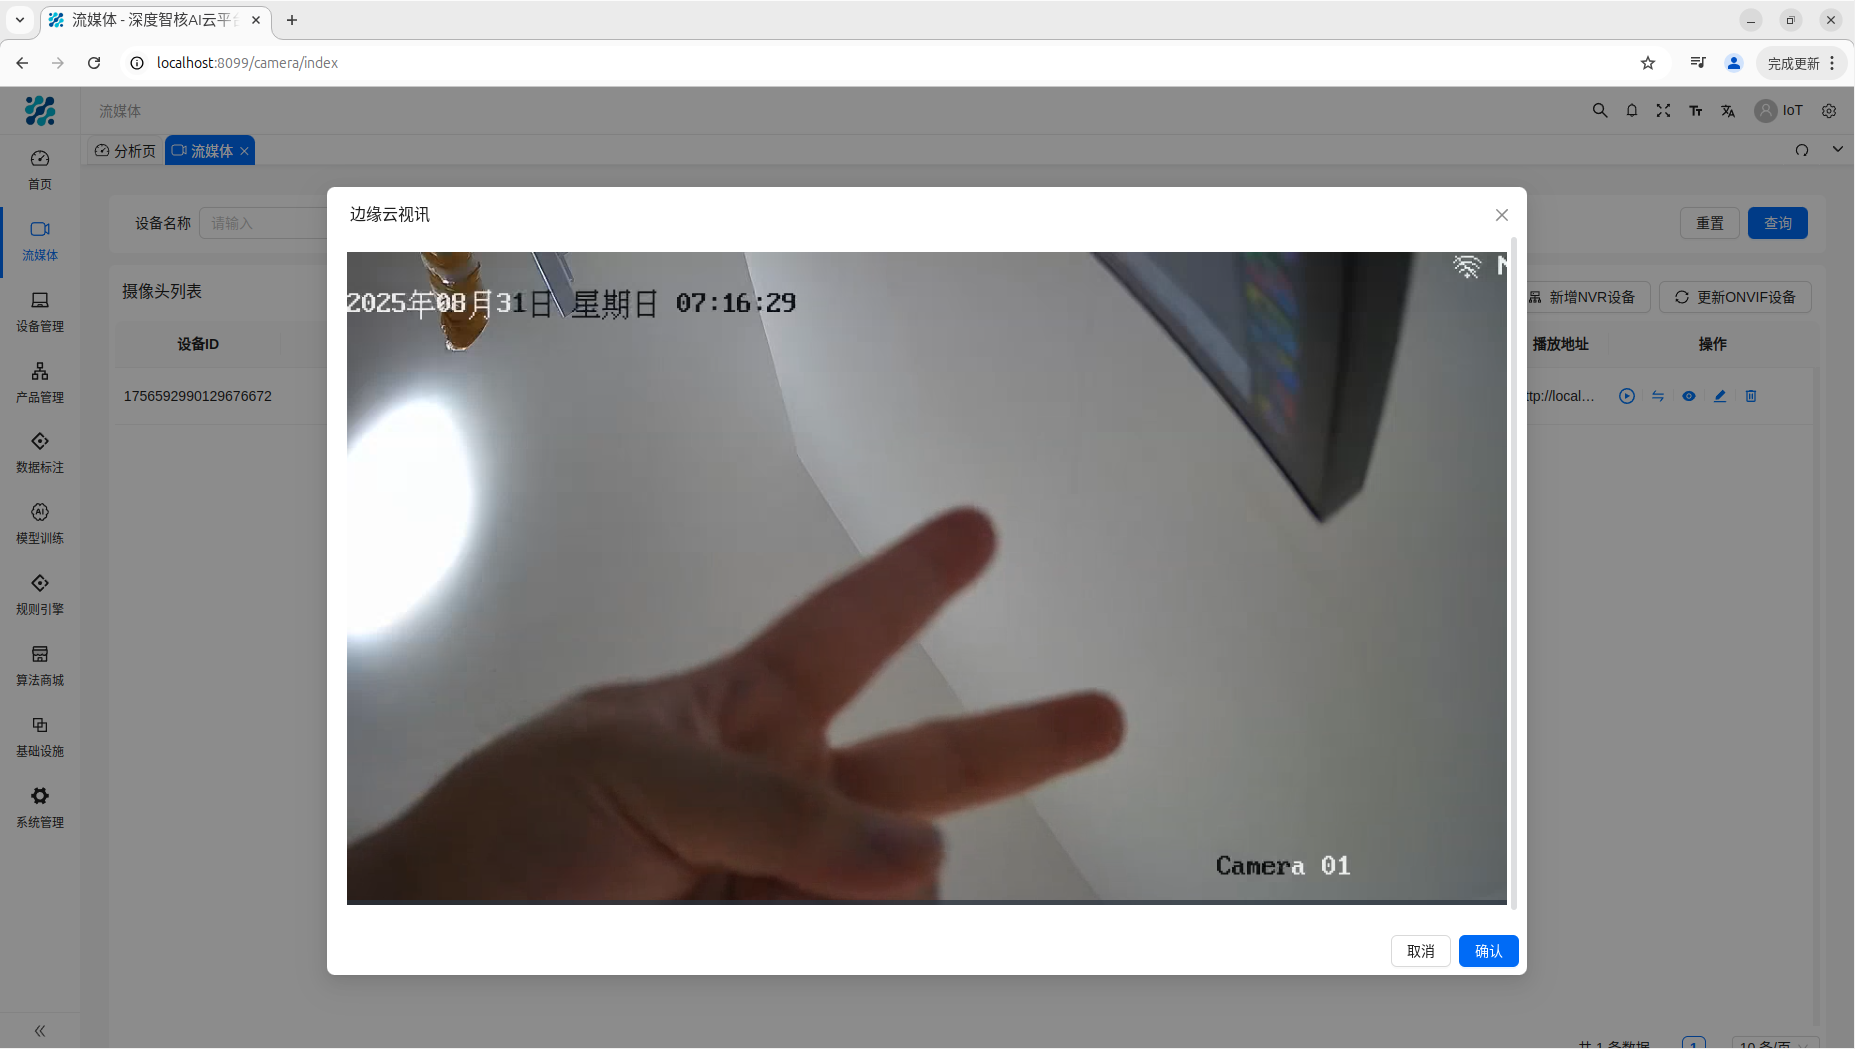
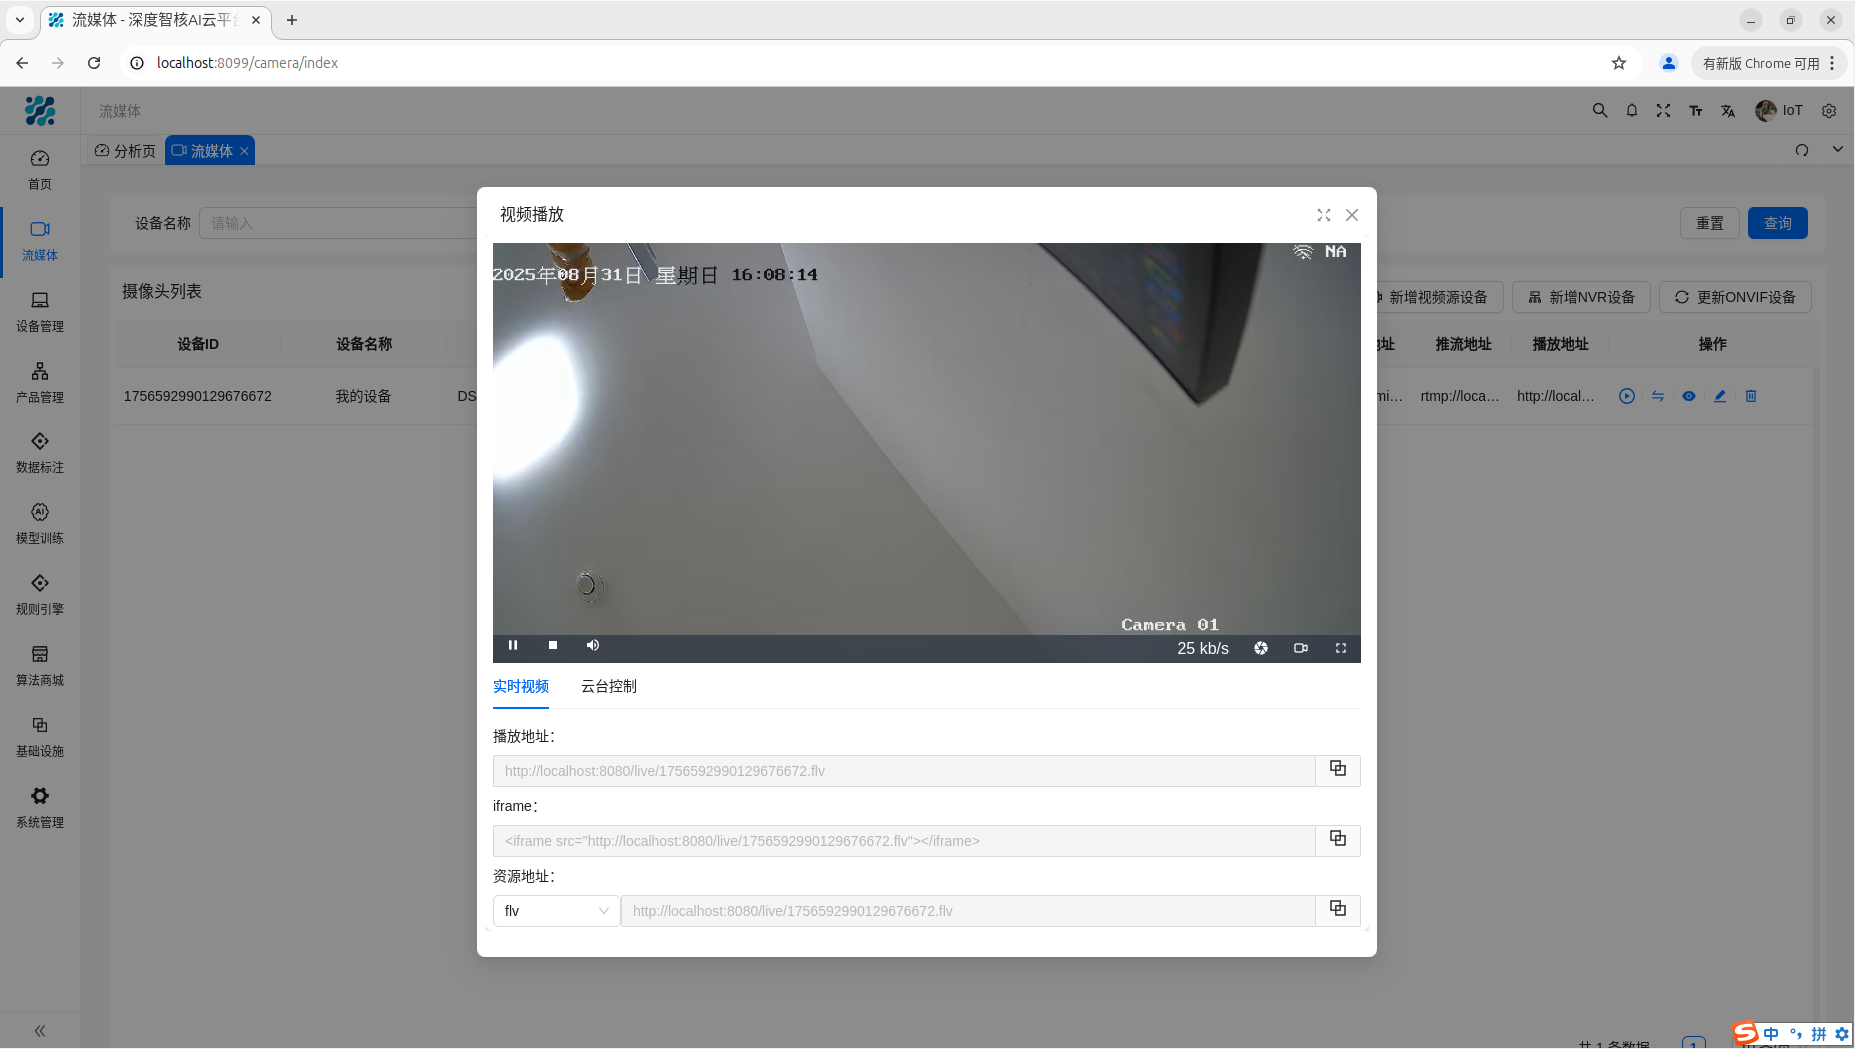
udp(WEB):增加云台指令上下左右控制截图

diff --git a/README.md b/README.md
@@ -182,8 +182,8 @@ EasyAIoT是一个开源学习项目，与商业行为无关。用户在使用该
   <img src=".image/banner/banner1022.jpg" alt="Screenshot 8" width="49%">
 </div>
 <div>
-  <img src=".image/banner/banner1025.jpg" alt="Screenshot 7" width="49%" style="margin-right: 10px">
-  <img src=".image/banner/banner1026.jpg" alt="Screenshot 8" width="49%">
+  <img src=".image/banner/banner1026.jpg" alt="Screenshot 8" width="49%" style="margin-right: 10px">
+  <img src=".image/banner/banner1028.jpg" alt="Screenshot 7">
 </div>
 <div>
   <img src=".image/banner/banner1013.jpg" alt="Screenshot 9" width="49%" style="margin-right: 10px">

diff --git a/README_en.md b/README_en.md
@@ -186,8 +186,8 @@ compensate third parties for damages caused by usage. All EasyAIoT-related resou
   <img src=".image/banner/banner1022.jpg" alt="Screenshot 8" width="49%">
 </div>
 <div>
-  <img src=".image/banner/banner1025.jpg" alt="Screenshot 7" width="49%" style="margin-right: 10px">
-  <img src=".image/banner/banner1026.jpg" alt="Screenshot 8" width="49%">
+  <img src=".image/banner/banner1026.jpg" alt="Screenshot 8" width="49%" style="margin-right: 10px">
+  <img src=".image/banner/banner1028.jpg" alt="Screenshot 7">
 </div>
 <div>
   <img src=".image/banner/banner1013.jpg" alt="Screenshot 9" width="49%" style="margin-right: 10px">